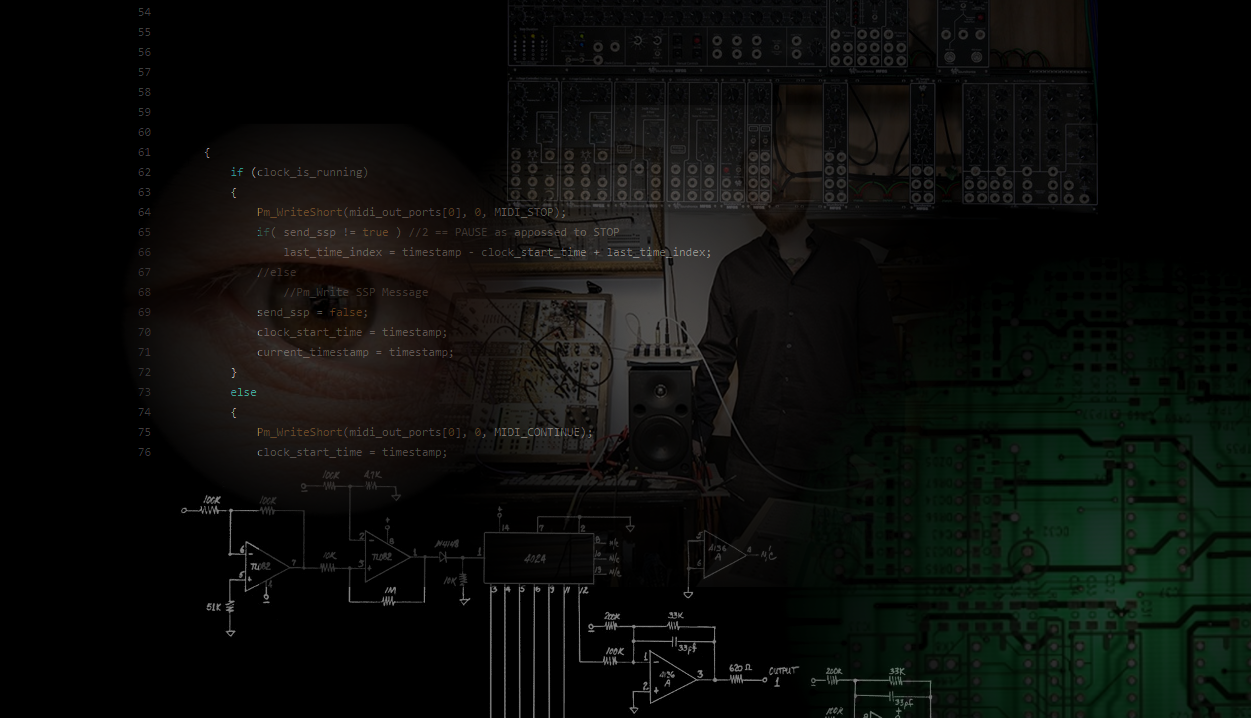
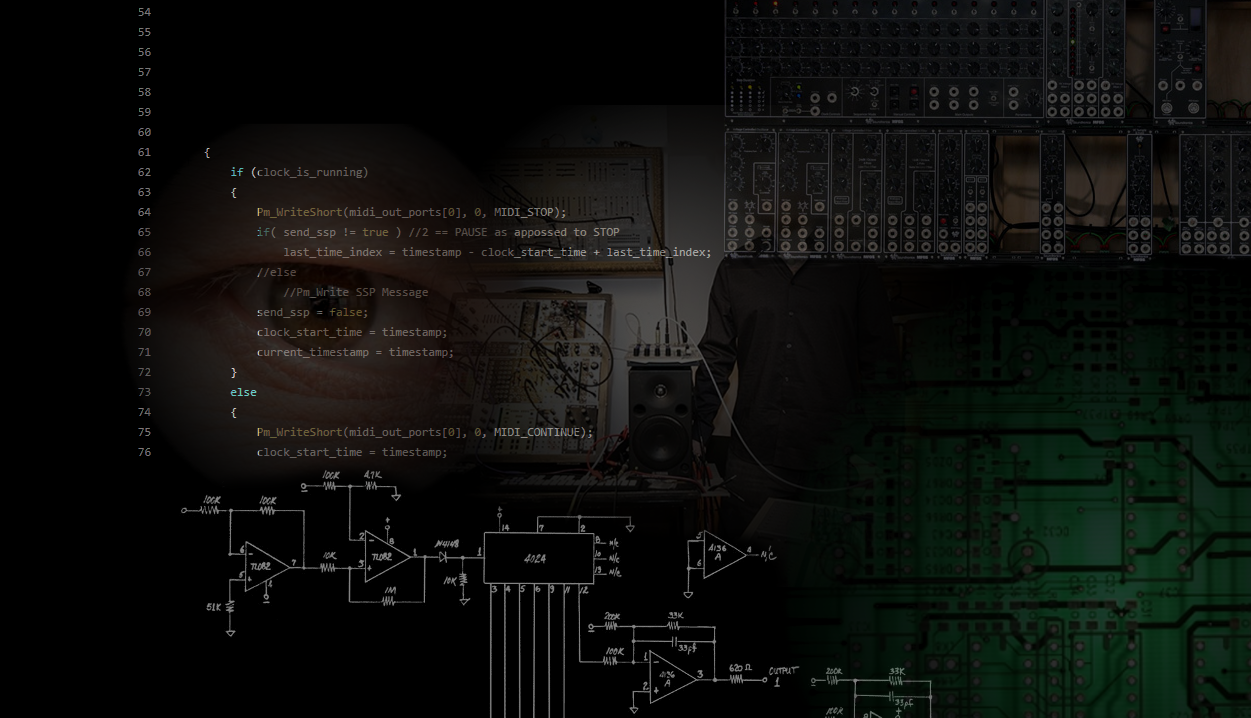
modified calliope.sutra 1.0 css to work with a.tableLinkItem. Also, changes to diy.png image

diff --git a/themes/calliopesutra-1.0/css/calliopesutra.css b/themes/calliopesutra-1.0/css/calliopesutra.css
@@ -224,25 +224,6 @@ a.linkItem:hover { text-decoration:underline; text-shadow: 0px 0px #FFFFFF;	}
 .article {
 	border:1px solid red
 }
-
-.article a.linkItem
-{
-	text-decoration:none;
-	color:#000099;
-}
-
-.article a.linkItem:hover
-{
-	text-decoration:underline;
-	text-shadow: 0px 0px #000000;
-}
-
-a.linkItem:hover
-{
-	text-decoration:underline;
-	text-shadow: 0px 0px #000000;
-}
-
  
 .articleTab {
 	border-bottom:none
